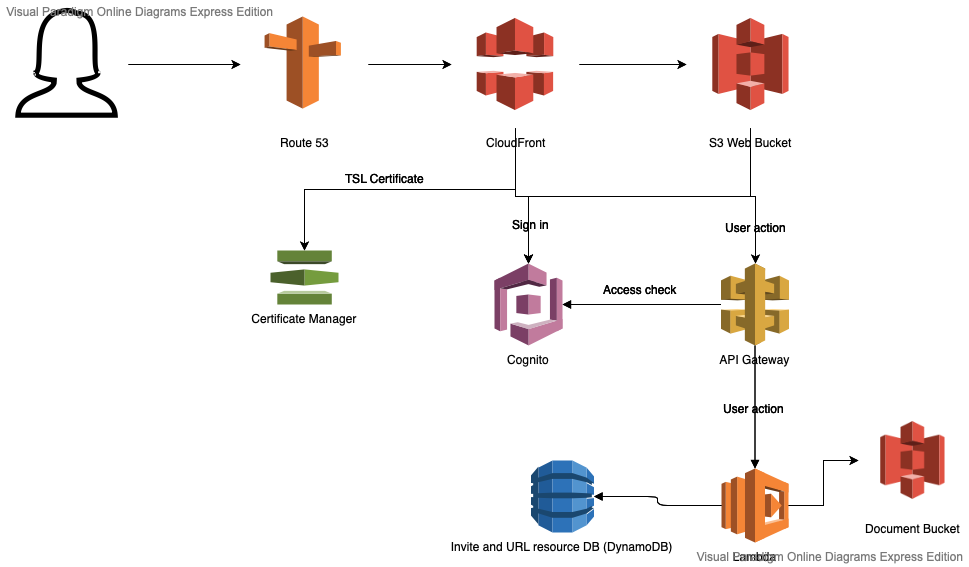
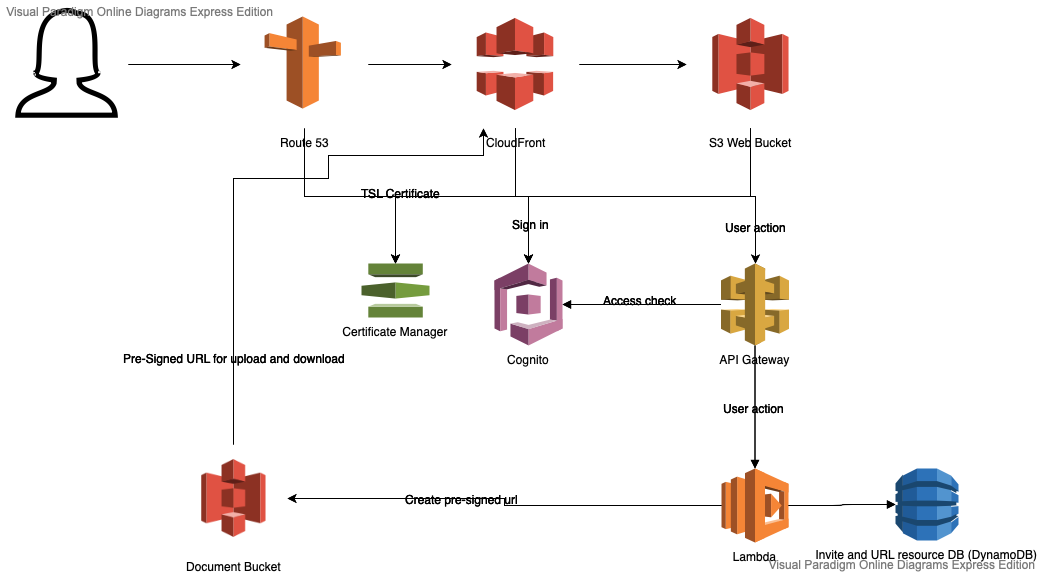
Added some slides and explanations

diff --git a/index.html b/index.html
@@ -67,18 +67,105 @@
 						<p class="fragment fade in">**Incremental feature building based on gathered data**</p>
 					</textarea>
 				</section>
-                <section data-markdown data-background-image="/assets/covid.png" data-background-opacity="0.3">
-					<textarea data-template>
+                <section data-background-image="/assets/covid.png" data-background-opacity="0.3">
+					<section data-markdown >
+                    <textarea data-template>
 						## SDLC
 
 						![Overall Diagram](/assets/fancy-sdlc.png)
 					</textarea>
+                    </section>
+                    <section data-markdown>
+                    <textarea data-template>
+						## Grafana and Cloud Watch
+
+						![Overall Diagram](/assets/grafana.png)
+					</textarea>
+                    </section>
 				</section>
-				<section data-markdown data-background-image="/assets/covid.png" data-background-opacity="0.3">
-					<textarea data-template>
+                <section data-background-image="/assets/covid.png" data-background-opacity="0.3">
+					<section data-markdown >
+                    <textarea data-template>
+						## Phase 1
+
+						![Overall Diagram](/assets/diagram-phase-1.png)
+					</textarea>
+                    </section>
+                    <section data-markdown>
+                    <textarea data-template>
+						## Phase 1
+						<p class="fragment fade in">**Route 53 domain**</p>
+						<p class="fragment fade in">**Cloud Front CDN**</p>
+						<p class="fragment fade in">**S3 Web Bucket**</p>
+						<p class="fragment fade in">**API Gateway HTTP API**</p>
+						<p class="fragment fade in">**Lambdas for functionality**</p>
+						<p class="fragment fade in">**S3 Document bucket**</p>
+						<p class="fragment fade in">**Invite and Credentials DynamoDB**</p>
+					</textarea>
+                    </section>
+				</section>
+                <section data-background-image="/assets/covid.png" data-background-opacity="0.3">
+					<section data-markdown >
+                    <textarea data-template>
+						## Phase 2
+
+						![Overall Diagram](/assets/diagram-phase-2.png)
+					</textarea>
+                    </section>
+                    <section data-markdown>
+                    <textarea data-template>
+						## Phase 2
+						<p class="fragment fade in">**AWS Certificate Manager**</p>
+						<p class="fragment fade in">**Pre-signed URLs for S3 in Document bucket**</p>
+						<p class="fragment fade in">**Still API Gateway HTTP API**</p>
+						<p class="fragment fade in">**Lambdas for functionality**</p>
+						<p class="fragment fade in">**Still using DynamoDB for credentials**</p>
+						<p class="fragment fade in">**Emails sent through Gmail account**</p>
+						<p class="fragment fade in">**Metrics enabled on S3 Document bucket**</p>
+					</textarea>
+                    </section>
+				</section>
+                <section data-background-image="/assets/covid.png" data-background-opacity="0.3">
+					<section data-markdown >
+                    <textarea data-template>
 						## Overall Architecture
 
 						![Overall Diagram](/assets/fancy-overall.png)
+					</textarea>
+                    </section>
+                    <section data-markdown>
+                    <textarea data-template>
+						## Final Architecture
+						<p class="fragment fade in">**Cognito for user credentials**</p>
+						<p class="fragment fade in">**API Gateway REST API with Cognito Integration**</p>
+						<p class="fragment fade in">**Additional functionality added to UI**</p>
+						<p class="fragment fade in">**Emails sent through SES**</p>
+						<p class="fragment fade in">**AWS Pinpoint set up for user analytics**</p>
+					</textarea>
+                    </section>
+                    <section data-markdown>
+                    <textarea data-template>
+						## Architectural Features
+						<p class="fragment fade in">**Can scale to 20 million users (Cognito)**</p>
+						<p class="fragment fade in">**Can theoretically scale to unlimited Lambda executions**</p>
+						<p class="fragment fade in">**Caching of frontend near the users (CloudFront CDN)**</p>
+						<p class="fragment fade in">**Database scaling automatically (DynamoDB)**</p>
+						<p class="fragment fade in">**Paying only for what's being used (So far around $2 per month)**</p>
+					</textarea>
+                    </section>
+				</section>
+                <section data-markdown data-background-image="/assets/covid.png" data-background-opacity="0.3">
+					<textarea data-template>
+						## Some numbers
+						<p class="fragment fade in">**Around 5000 GPs in Scotland**</p>
+						<p class="fragment fade in">**We reached ~1500 GPs within two weeks of COVID-19 information overload**</p>
+						<p class="fragment fade in">**GPs all over UK started logging in**</p>
+						<p class="fragment fade in">**Currently at around 600 active users**</p>
+					</textarea>
+				</section>
+                <section data-markdown data-background-image="/assets/covid.png" data-background-opacity="0.3">
+					<textarea data-template>
+						## Questions?
 					</textarea>
 				</section>
 			</div>
